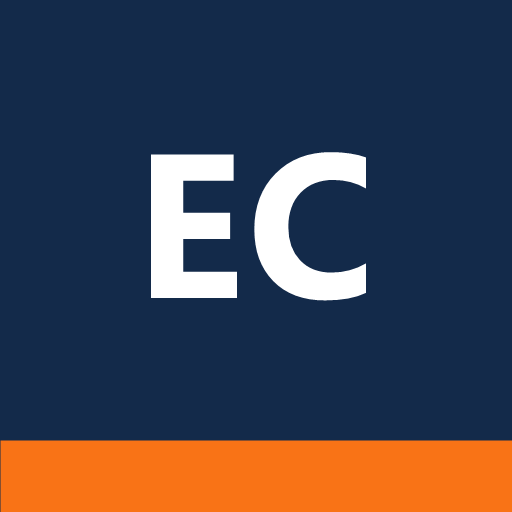
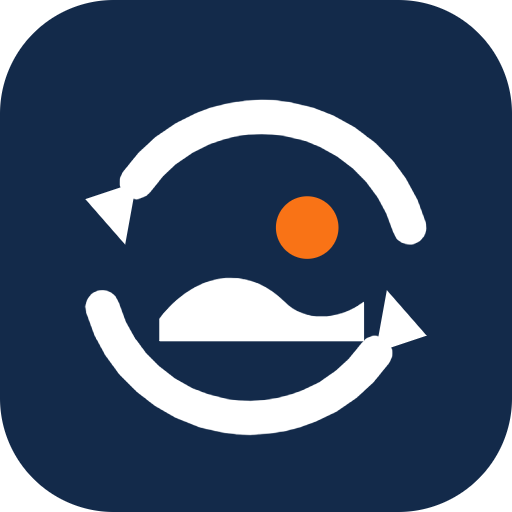
Marca oficial (Ciclo + Selo) e novas fontes Archivo/Manrope
- Logo escolhida pelo usuario: simbolo Ciclo (setas de sync abracando
  colina + sol) no formato Selo circular; componente src/components/
  Logo.tsx com variantes simbolo, lockup e selo
- Aplicada em: header do painel (lockup), header do tecnico (simbolo +
  nome da empresa), login e rodape do PDF; favicon via app/icon.svg;
  icones do PWA regenerados a partir do simbolo
- Tipografia: Karla/Nunito Sans -> Archivo (titulos/display) e
  Manrope (texto/UI)

diff --git a/src/components/Logo.tsx b/src/components/Logo.tsx
@@ -1,0 +1,63 @@
+// Marca EmCampo — combinação escolhida: símbolo "Ciclo" (setas de sync
+// abraçando colina + sol) dentro do formato "Selo" (carimbo circular).
+// Sem hooks: funciona em server e client components. O traço principal usa
+// currentColor (text-white em header navy, text-marinho em fundo claro);
+// o sol é sempre laranja.
+
+export function LogoSimbolo({ className }: { className?: string }) {
+  return (
+    <svg viewBox="0 0 90 90" className={className} aria-hidden>
+      <g fill="none" stroke="currentColor" strokeWidth="6" strokeLinecap="round">
+        <path d="M72 38 A 27 27 0 0 0 24 30" />
+        <path d="M18 52 A 27 27 0 0 0 66 60" />
+      </g>
+      <path d="M24 30 l-9 3 7 8z" fill="currentColor" />
+      <path d="M66 60 l9 -3 -7 -8z" fill="currentColor" />
+      <circle cx="54" cy="38" r="5.5" fill="#F97316" />
+      <path d="M28 54 C35 45 44 45 50 51 C54 55 60 54 64 51 L64 58 L28 58 Z" fill="currentColor" />
+    </svg>
+  );
+}
+
+export function LogoLockup({ className }: { className?: string }) {
+  return (
+    <span className={`flex items-center gap-2 ${className ?? ""}`}>
+      <LogoSimbolo className="h-[1.6em] w-[1.6em] flex-none" />
+      <span className="font-titulo font-extrabold tracking-tight">EmCampo</span>
+    </span>
+  );
+}
+
+/** Selo circular completo — para PDF, materiais e favicon grande. */
+export function LogoSelo({ className }: { className?: string }) {
+  return (
+    <svg viewBox="0 0 170 170" className={className} aria-hidden>
+      <defs>
+        <path id="logo-selo-arco" d="M85 20a65 65 0 1 1-0.01 0" />
+      </defs>
+      <circle cx="85" cy="85" r="80" fill="none" stroke="currentColor" strokeWidth="4" />
+      <circle cx="85" cy="85" r="56" fill="none" stroke="currentColor" strokeWidth="2" />
+      <text
+        fontSize="13"
+        fontWeight="800"
+        fill="currentColor"
+        letterSpacing="2.5"
+        fontFamily="var(--font-archivo), sans-serif"
+      >
+        <textPath href="#logo-selo-arco" startOffset="2%">
+          EMCAMPO • RELATÓRIOS DE CAMPO •
+        </textPath>
+      </text>
+      <g transform="translate(40 40)">
+        <g fill="none" stroke="currentColor" strokeWidth="6" strokeLinecap="round">
+          <path d="M72 38 A 27 27 0 0 0 24 30" />
+          <path d="M18 52 A 27 27 0 0 0 66 60" />
+        </g>
+        <path d="M24 30 l-9 3 7 8z" fill="currentColor" />
+        <path d="M66 60 l9 -3 -7 -8z" fill="currentColor" />
+        <circle cx="54" cy="38" r="5.5" fill="#F97316" />
+        <path d="M28 54 C35 45 44 45 50 51 C54 55 60 54 64 51 L64 58 L28 58 Z" fill="currentColor" />
+      </g>
+    </svg>
+  );
+}

diff --git a/src/app/layout.tsx b/src/app/layout.tsx
@@ -1,14 +1,14 @@
 import type { Metadata } from "next";
-import { Karla, Nunito_Sans } from "next/font/google";
+import { Archivo, Manrope } from "next/font/google";
 import "./globals.css";
 
-const karla = Karla({
-  variable: "--font-karla",
+const archivo = Archivo({
+  variable: "--font-archivo",
   subsets: ["latin"],
 });
 
-const nunitoSans = Nunito_Sans({
-  variable: "--font-nunito",
+const manrope = Manrope({
+  variable: "--font-manrope",
   subsets: ["latin"],
 });
 
@@ -30,7 +30,7 @@ export default function RootLayout({
   return (
     <html
       lang="pt-BR"
-      className={`${karla.variable} ${nunitoSans.variable} h-full antialiased`}
+      className={`${archivo.variable} ${manrope.variable} h-full antialiased`}
     >
       <body className="min-h-full flex flex-col">{children}</body>
     </html>

diff --git a/src/app/campo/layout.tsx b/src/app/campo/layout.tsx
@@ -1,5 +1,6 @@
 import Link from "next/link";
 import BotaoSair from "@/components/BotaoSair";
+import { LogoSimbolo } from "@/components/Logo";
 import { prisma } from "@/lib/db";
 import { requireUser } from "@/lib/session";
 import AutoSync from "./AutoSync";
@@ -17,8 +18,9 @@ export default async function CampoLayout({ children }: { children: React.ReactN
   return (
     <div className="min-h-dvh bg-base">
       <header className="header-app sticky top-0 z-10 flex items-center justify-between px-4 py-3 text-white">
-        <Link href="/campo" className="truncate pr-2 text-base font-bold">
-          {titulo}
+        <Link href="/campo" className="flex min-w-0 items-center gap-2 pr-2">
+          <LogoSimbolo className="h-7 w-7 flex-none text-white" />
+          <span className="truncate font-titulo text-base font-extrabold tracking-tight">{titulo}</span>
         </Link>
         <div className="flex items-center gap-3">
           <AutoSync />

diff --git a/src/app/login/page.tsx b/src/app/login/page.tsx
@@ -1,3 +1,4 @@
+import { LogoSimbolo } from "@/components/Logo";
 import { login } from "@/lib/actions";
 
 // Cena de fundo: campo em navy monocromático com linhas gravadas radiantes
@@ -76,9 +77,8 @@ export default async function LoginPage({
 
       <header className="relative z-10 flex items-center justify-between px-6 py-4 lg:px-10">
         <div className="flex items-center gap-2.5">
-          <div className="relative flex h-9 w-9 items-center justify-center overflow-hidden rounded-lg bg-white/10">
-            <span className="font-titulo text-sm font-extrabold text-white">EC</span>
-            <span className="absolute inset-x-0 bottom-0 h-1 bg-laranja" aria-hidden />
+          <div className="flex h-9 w-9 items-center justify-center rounded-lg bg-white/10 p-1">
+            <LogoSimbolo className="h-full w-full text-white" />
           </div>
           <span className="font-titulo text-lg font-extrabold tracking-tight text-white">EmCampo</span>
         </div>

diff --git a/src/app/relatorio/[uuid]/imprimir/page.tsx b/src/app/relatorio/[uuid]/imprimir/page.tsx
@@ -1,4 +1,5 @@
 import { notFound } from "next/navigation";
+import { LogoSimbolo } from "@/components/Logo";
 import RespostasView, { formatarValor } from "@/components/RespostasView";
 import { prisma } from "@/lib/db";
 import { requireUser } from "@/lib/session";
@@ -97,9 +98,10 @@ export default async function Imprimir({ params }: { params: Promise<{ uuid: str
         }))}
       />
 
-      <p className="mt-8 border-t border-slate-200 pt-3 text-center text-xs text-slate-400">
+      <p className="mt-8 flex items-center justify-center gap-1.5 border-t border-slate-200 pt-3 text-center text-xs text-slate-400">
         Relatório nº {r.uuid.slice(0, 8).toUpperCase()}
-        {empresa?.nome ? ` · ${empresa.nome}` : ""} · gerado por EmCampo
+        {empresa?.nome ? ` · ${empresa.nome}` : ""} · gerado por
+        <LogoSimbolo className="inline h-4 w-4 text-slate-500" /> EmCampo
       </p>
     </div>
   );

diff --git a/src/app/globals.css b/src/app/globals.css
@@ -26,8 +26,8 @@
   --color-info: #1e4e8c;
   --color-info-bg: #e1ebf7;
 
-  --font-sans: var(--font-nunito), system-ui, sans-serif;
-  --font-titulo: var(--font-karla), var(--font-nunito), system-ui, sans-serif;
+  --font-sans: var(--font-manrope), system-ui, sans-serif;
+  --font-titulo: var(--font-archivo), var(--font-manrope), system-ui, sans-serif;
 }
 
 body {

diff --git a/src/app/painel/layout.tsx b/src/app/painel/layout.tsx
@@ -1,4 +1,5 @@
 import BotaoSair from "@/components/BotaoSair";
+import { LogoLockup } from "@/components/Logo";
 import NavPainel from "@/components/NavPainel";
 import { requireUser } from "@/lib/session";
 
@@ -10,7 +11,7 @@ export default async function PainelLayout({ children }: { children: React.React
       <header className="header-app text-white">
         <div className="mx-auto flex max-w-5xl flex-wrap items-center justify-between gap-2 px-4 py-3">
           <div className="flex flex-wrap items-center gap-4">
-            <span className="font-bold">EmCampo</span>
+            <LogoLockup className="text-white" />
             <NavPainel />
           </div>
           <div className="flex items-center gap-3 text-sm">